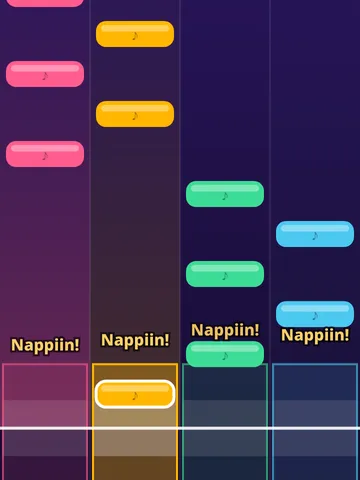
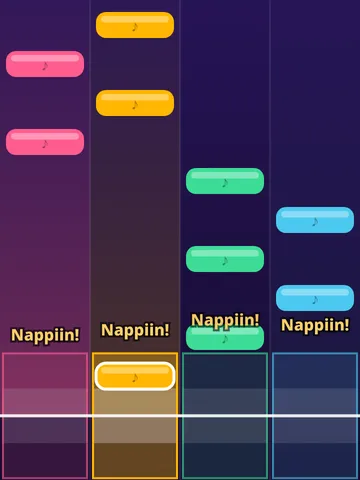
Piano v4: keep the whole hit zone above the keys on fast songs
The review found that on level 13 the late part of the zone was hidden
behind the keys while still counting. The line is now placed per level so
both edges of the zone show; tested at 390 x 844 and 360 x 640 up to a
fast later lap.

diff --git a/games/piano/v4/index.html b/games/piano/v4/index.html
@@ -152,7 +152,7 @@ const LEAD0 = 1.9;                    // seconds a note takes from the top to th
 const LIVES = 3;
 const lead = level => LEAD0 * (songOf(level).lead || 1) / Math.sqrt(speedOf(level));
 
-let W, H, DPR, safeT = 0, safeB = 0, laneW, hitY, btnTop, topY;
+let W, H, DPR, safeT = 0, safeB = 0, laneW, hitY, btnTop, topY, lineLevel = 1;
 function resize() {
   DPR = window.devicePixelRatio || 1;
   W = innerWidth; H = innerHeight;
@@ -161,8 +161,16 @@ function resize() {
   safeT = parseFloat(cs.paddingTop) || 0; safeB = parseFloat(cs.paddingBottom) || 0;
   laneW = W / 4;
   btnTop = H - safeB - Math.max(96, Math.min(140, H * 0.17));
-  hitY = btnTop - 56;  // v4: room under the line for the lower half of the hit zone
   topY = safeT + 64;
+  placeLine(lineLevel);
+}
+// v4: the line sits just high enough that the whole hit zone, its late half too, shows above the
+// keys at this level's fall speed. The zone's half height is GOOD / lead * (hitY - topY), so
+// solve hitY + that = btnTop - 6. It moves only between levels, while the level's name shows.
+function placeLine(lv) {
+  lineLevel = lv;
+  const k = GOOD / lead(lv);
+  hitY = (btnTop - 6 + k * topY) / (1 + k);
 }
 addEventListener('resize', resize); resize();
 
@@ -203,6 +211,7 @@ function newGame(from) {
 }
 function startLevel() {
   cur = levelNotes(level);
+  placeLine(level);
   lives = LIVES;  // v3: every level starts with three fresh hearts
   // A note at t = 0 starts at the top of the screen, so the first one has time to fall.
   now = -lead(level) - 0.6;

diff --git a/tests/test_piano_v4.py b/tests/test_piano_v4.py
@@ -1,5 +1,7 @@
 """Piano v4: the hit zone is drawn, and it is the same time window for every note."""
 
+import pytest
+
 from conftest import ROOT
 
 URL = "games/piano/v4/"
@@ -89,12 +91,19 @@ def test_the_zone_follows_a_new_level_after_a_reload(site, context):
     assert page.evaluate("[level, zonePx(GOOD) < " + str(fast) + "]") == [9, True]
 
 
-def test_the_zone_fits_a_390_px_phone(site, browser):
+@pytest.mark.parametrize("w,h", [(390, 844), (360, 640)])
+def test_the_zone_fits_a_390_px_phone(site, browser, w, h):
     site.build(ROOT / "games")
-    ctx = browser.new_context(viewport={"width": 390, "height": 844}, is_mobile=True, has_touch=True)
+    ctx = browser.new_context(viewport={"width": w, "height": h}, is_mobile=True, has_touch=True)
     page = ctx.new_page()
     page.goto(site.url + URL)
+    page.evaluate("localStorage.setItem('ai-pelit:piano:taso', '40')")
+    page.reload()
+    # Both edges of the zone stay between the hearts and the keys, from the slowest song to a
+    # fast one on a later, faster lap; the lane is a quarter of the width.
     page.click("#go")
-    # The zone's upper half and the line sit above the keys; the lane is a quarter of the width.
-    assert page.evaluate("[hitY - zonePx(GOOD) > topY + 20, hitY < btnTop, Math.round(laneW)]") == [True, True, 98]
+    for lv in (1, 9, 13, 26, 40):
+        edges = page.evaluate(f"level = {lv}; startLevel(); [hitY - zonePx(GOOD) > topY + 20, hitY + zonePx(GOOD) <= btnTop]")
+        assert edges == [True, True], lv
+    assert round(page.evaluate("laneW")) == round(w / 4)
     ctx.close()

diff --git a/docs/diagrams/piano.md b/docs/diagrams/piano.md
@@ -57,7 +57,7 @@ flowchart TD
 - **Tason alussa kolme uutta sydäntä**: v3 `startLevel()` sets `lives = LIVES` (3) on every level; in v1 and v2 the three hearts last the whole game.
 - **Kappale alkaa: nuotit putoavat neljää kaistaa**: `startLevel()` → `levelNotes()` in `games/piano/v1/index.html`. Four songs in `SONGS` (Tuiki tuiki tähtönen, Ukko Nooa, Jaakko kulta, Oodi ilolle), then round again; v2 has nine, adding Maija pikkuinen, Piippolan vaari, Lontoon silta, Paljon onnea vaan and Kulkuset; v3 adds four hard ones at the end: Vuorenpeikkojen luolassa, Turkkilainen marssi, Kimalaisen lento and Tulimyrsky (written for the game), with sixteenth notes down to 0.1 s apart. A dense song falls faster (`lead` per song) so its notes do not overlap. `nextLane()` puts each note one lane right for a step up in the tune, one left for a step down, two for a leap, and the same lane for a repeated note. From v2 a leap that would go past the edge takes one step instead of turning right round.
 - **Painat kaistan nappia**: the `pointerdown` handler: anywhere in a lane below the top bar counts as that lane's key, so several fingers can play at once.
-- **Onko tämän kaistan nuotti viivalla?**: `tap()` takes the nearest unplayed note of that lane within `GOOD` (0.16 s); within `PERFECT` (0.07 s) is "Nappiin!". The window is the same time for every note and song, however fast it falls. From v4 `drawZone()` shows it in every lane: the band is ±`GOOD`, its bright middle ±`PERFECT`, the line the beat; `zonePx()` turns the window into pixels at the current fall speed, so a faster note's zone is taller. A note's middle is its beat (v1–v3 used its bottom edge), it gets a white outline while `inZone()`, and its lane lights up.
+- **Onko tämän kaistan nuotti viivalla?**: `tap()` takes the nearest unplayed note of that lane within `GOOD` (0.16 s); within `PERFECT` (0.07 s) is "Nappiin!". The window is the same time for every note and song, however fast it falls. From v4 `drawZone()` shows it in every lane: the band is ±`GOOD`, its bright middle ±`PERFECT`, the line the beat; `zonePx()` turns the window into pixels at the current fall speed, so a faster note's zone is taller; `placeLine()` sets the line per level just high enough that the whole zone, its late half too, shows above the keys. A note's middle is its beat (v1–v3 used its bottom edge), it gets a white outline while `inZone()`, and its lane lights up.
 - **Nappiin!: 100 p x putki-kerroin**: `mult()`: every 10 hits in a row add one to the multiplier, up to x4.
 - **Nuotti soi**: `piano()`: a triangle wave with a quiet octave above it and a long fade, at the note's pitch.
 - **Nuotti putoaa viivan ohi**: `update()` marks a note missed once it is more than `GOOD` past the line.
